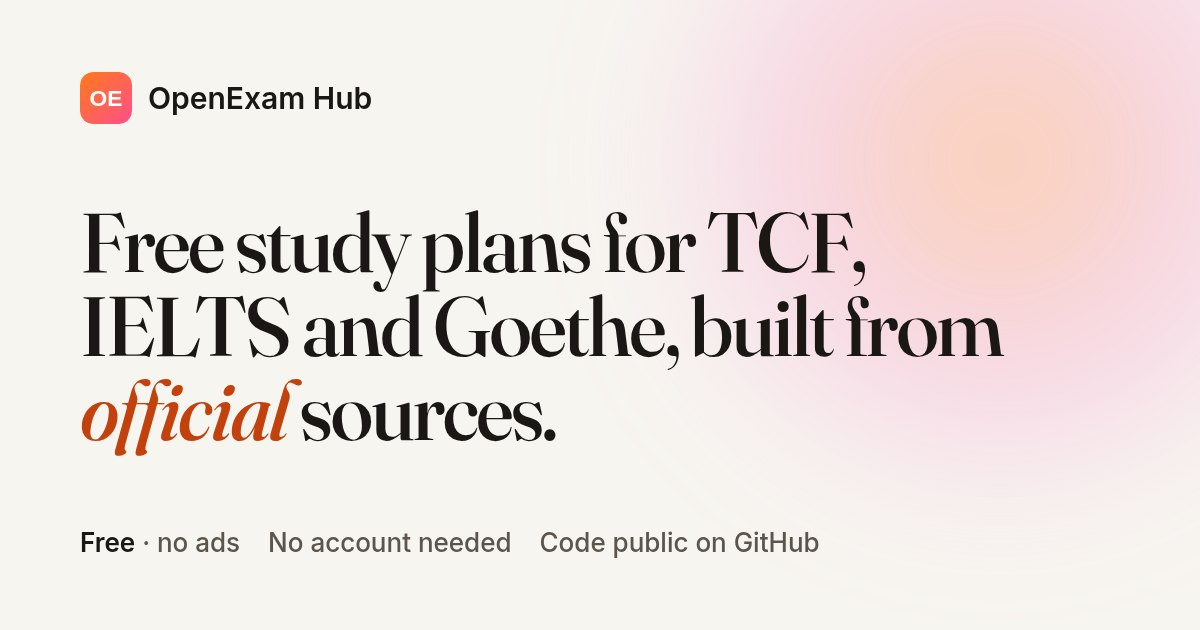
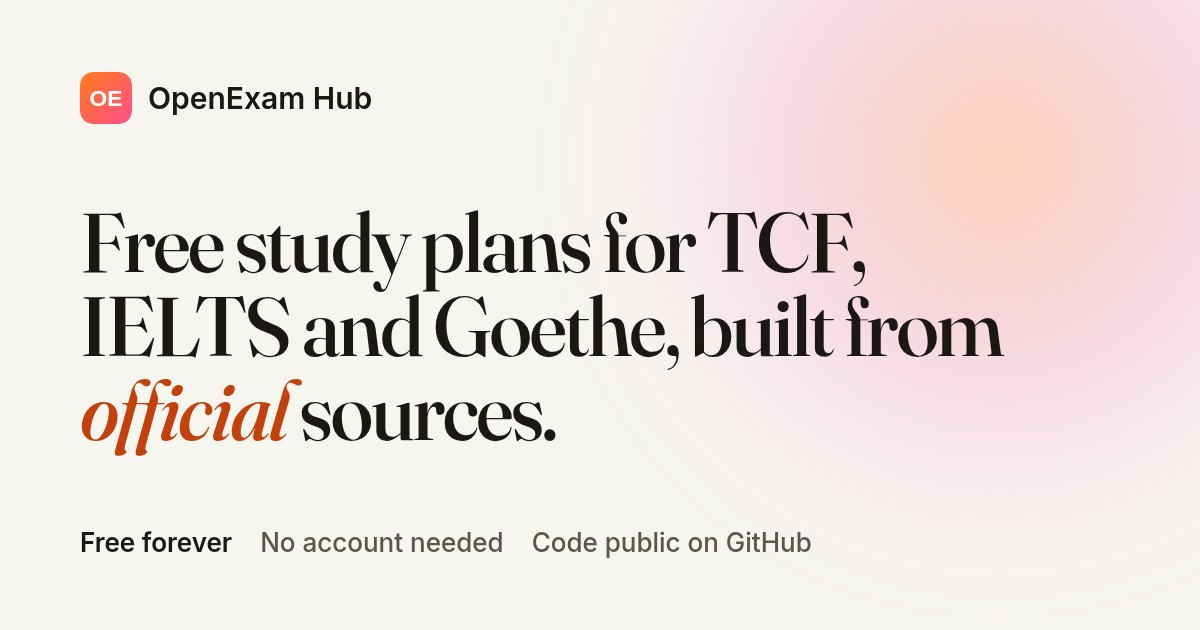
Landing copy: new funding model (donations + dashboard-only ads until 5 years are covered)
Remove all 'no ads' / 'ad-free' claims; landing never shows ads; earnings shown publicly.
Privacy notice: no ads yet, notice will name the ad provider before dashboard ads go live.
OG image and meta descriptions updated.

Changed region(s): [[0.0925, 0.8444, 0.6783, 0.9048]]

diff --git a/src/landing/Landing.jsx b/src/landing/Landing.jsx
@@ -70,7 +70,7 @@ function Hero() {
             </a>
           </div>
           <p className={`mt-6 text-[15px] ${muted}`}>
-            No account needed · No ads · Code public on GitHub
+            Free forever · No account needed · Code public on GitHub
           </p>
         </div>
 
@@ -269,8 +269,8 @@ function ProductPeek() {
 
 function Free() {
   const promises = [
-    ['No paywall', 'Every feature is free. There is no premium tier waiting behind it.'],
-    ['No ads', 'There are no ads on OpenExam Hub, and no advertising trackers.'],
+    ['No paywall', 'Every feature is free, forever. There is no premium tier waiting behind it.'],
+    ['Open books', 'Every euro from donations and dashboard ads is shown publicly, so you can see exactly how the site is paid for.'],
     ['No selling data', 'We don’t sell or rent personal data, and never will.']
   ];
   return (
@@ -278,12 +278,17 @@ function Free() {
       <div className="mx-auto max-w-6xl px-5 sm:px-8 py-20 sm:py-28 grid lg:grid-cols-[1fr_1.4fr] gap-12 lg:gap-20">
         <div>
           <p className={eyebrow}>How it’s free</p>
-          <h2 id="free-title" className={`mt-4 ${h2}`}>Free because the material is free.</h2>
+          <h2 id="free-title" className={`mt-4 ${h2}`}>How the lights stay on.</h2>
         </div>
         <div>
           <p className={lead}>
-            The expensive part of exam prep is usually the course, not the content. We skip the course. What’s
-            left costs little: web hosting and AI calls for writing plans. We pay for those ourselves, helped by optional tips.
+            Free forever. Funded openly by donations and a few dashboard ads, which go away once the next 5 years
+            are covered.
+          </p>
+          <p className={`mt-5 text-[17px] leading-[1.7] ${muted}`}>
+            The expensive part of exam prep is usually the course, not the content. We skip the course. What’s left
+            is hosting and AI calls for writing plans. Ads appear only on the study dashboard, never on this page,
+            and all earnings from ads and donations are published so anyone can check them.
           </p>
           <dl className="mt-10 divide-y divide-[#E7E1D7] border-y border-[#E7E1D7]">
             {promises.map(([t, d]) => (
@@ -294,10 +299,9 @@ function Free() {
             ))}
           </dl>
           <p className={`mt-8 text-[17px] leading-[1.7] ${muted}`}>
-            If you’d like to help keep it running, you can leave a tip on{' '}
+            Want to help the ads disappear sooner? You can leave a tip on{' '}
             <a className="text-[#C2410C] underline underline-offset-4" href={DONATION_LINKS.kofi} target="_blank" rel="noopener noreferrer">Ko-fi</a>.
-            It’s entirely optional and unlocks nothing: everyone gets the same planner. We’re connecting donations to a
-            public ledger inside the app, so anyone can see what came in and what it paid for.
+            It’s optional and unlocks nothing: everyone gets the same planner.
           </p>
           <a
             href={DONATION_LINKS.kofi}
@@ -318,7 +322,7 @@ function Privacy() {
     ['Use it as a guest', 'When you open the planner, it creates an anonymous account in your browser. No name, no email.'],
     ['Your plans are yours', 'Plans and ticks are stored in Google Firebase (EU region), under your account only. Other people can’t read them.'],
     ['Sign in only to sync', 'Signing in with email or Google is optional and only lets you use your plans on more than one device.'],
-    ['Nothing to track you', 'No analytics, no ad pixels. AI requests contain your exam, level, timeline and progress, never your name or email.']
+    ['No analytics', 'We don’t use analytics tools. AI requests contain your exam, level, timeline and progress, never your name or email.']
   ];
   return (
     <section id="privacy" className="scroll-mt-6 bg-[#F1EDE5]" aria-labelledby="privacy-title">
@@ -408,7 +412,7 @@ function FinalCTA() {
         <h2 id="cta-title" className={`font-display ${ink} text-[38px] leading-[1.05] sm:text-6xl tracking-[-0.03em] font-medium`}>
           Your exam date is set.<br className="hidden sm:block" /> Make the weeks before it calmer.
         </h2>
-        <p className={`mt-6 ${lead} max-w-xl mx-auto`}>Three choices and you have a plan. No account, no card, no ads.</p>
+        <p className={`mt-6 ${lead} max-w-xl mx-auto`}>Three choices and you have a plan. No account, no card.</p>
         <div className="mt-9"><PrimaryCTA /></div>
       </div>
     </section>

diff --git a/index.html b/index.html
@@ -5,7 +5,7 @@
     <meta charset="UTF-8" />
     <meta name="viewport" content="width=device-width, initial-scale=1, viewport-fit=cover" />
     <title>OpenExam Hub · Free study plans for TCF, IELTS and Goethe exams</title>
-    <meta name="description" content="Free, day-by-day study plans for TCF, IELTS and Goethe exams, built only from official free resources. No account needed, no ads, code public on GitHub." />
+    <meta name="description" content="Free, day-by-day study plans for TCF, IELTS and Goethe exams, built only from official free resources. Free forever, no account needed, code public on GitHub." />
     <meta name="theme-color" content="#F7F5F0" />
     <link rel="canonical" href="https://openexam-hub.vercel.app/" />
 
@@ -18,14 +18,14 @@
     <meta property="og:site_name" content="OpenExam Hub" />
     <meta property="og:url" content="https://openexam-hub.vercel.app/" />
     <meta property="og:title" content="OpenExam Hub · Free study plans for TCF, IELTS and Goethe" />
-    <meta property="og:description" content="A free, independent study planner that turns official free exam material into a day-by-day plan. No ads, no paywall." />
+    <meta property="og:description" content="A free, independent study planner that turns official free exam material into a day-by-day plan. Free forever, funded in the open." />
     <meta property="og:image" content="https://openexam-hub.vercel.app/og-image.jpg" />
     <meta property="og:image:width" content="1200" />
     <meta property="og:image:height" content="630" />
     <meta property="og:image:alt" content="OpenExam Hub: free study plans for TCF, IELTS and Goethe, built from official sources." />
     <meta name="twitter:card" content="summary_large_image" />
     <meta name="twitter:title" content="OpenExam Hub · Free study plans for TCF, IELTS and Goethe" />
-    <meta name="twitter:description" content="A free, independent study planner built from official free exam material. No ads, no paywall." />
+    <meta name="twitter:description" content="A free, independent study planner built from official free exam material. Free forever, funded in the open." />
     <meta name="twitter:image" content="https://openexam-hub.vercel.app/og-image.jpg" />
 
     <link rel="preconnect" href="https://fonts.googleapis.com" />

diff --git a/src/landing/content.js b/src/landing/content.js
@@ -40,7 +40,7 @@ export const SOURCES = [
 export const FAQ = [
   {
     q: 'Is it really free? What’s the catch?',
-    a: 'There is no paid tier, no paywall and no ads, and we don’t sell data. Running it costs a little money (hosting and AI calls), which we cover ourselves, helped by optional tips on Ko-fi. Tipping unlocks nothing; everyone gets the same planner. If that ever changes, we’ll say so on this page first.'
+    a: 'There is no paid tier and no paywall, and we don’t sell data. Running it costs money (hosting and AI calls). It’s funded openly by donations and, on the study dashboard only, a few ads. Every euro from both is shown publicly, and once the next 5 years of running costs are covered, the ads go away. This page will never show ads.'
   },
   {
     q: 'Do I need an account?',

diff --git a/src/landing/LegalPage.jsx b/src/landing/LegalPage.jsx
@@ -47,7 +47,7 @@ const PAGES = {
         h: 'What we don’t do',
         body: (
           <ul>
-            <li>No ads, no advertising trackers and no analytics tools.</li>
+            <li>No analytics tools. There are no ads yet; before dashboard ads go live, this notice will be updated to name the ad provider and what it collects, and ads will never appear on the landing page.</li>
             <li>We don’t sell, rent or share your personal data for marketing.</li>
             <li>We don’t ask for your real name, phone number or payment details.</li>
           </ul>

diff --git a/src/App.jsx b/src/App.jsx
@@ -1270,7 +1270,7 @@ Never include pirated PDFs, paywalled courses, or third-party blogs. Output stri
             </span>
           </span>
           <span className="inline-flex items-center gap-3 whitespace-nowrap">
-            <span className="text-neutral-400">No ads · no paywall</span>
+            <span className="text-neutral-400">Free forever · earnings shown publicly</span>
             <a href="/" className="text-white font-semibold hover:text-orange-200 transition">About this project →</a>
           </span>
         </div>
